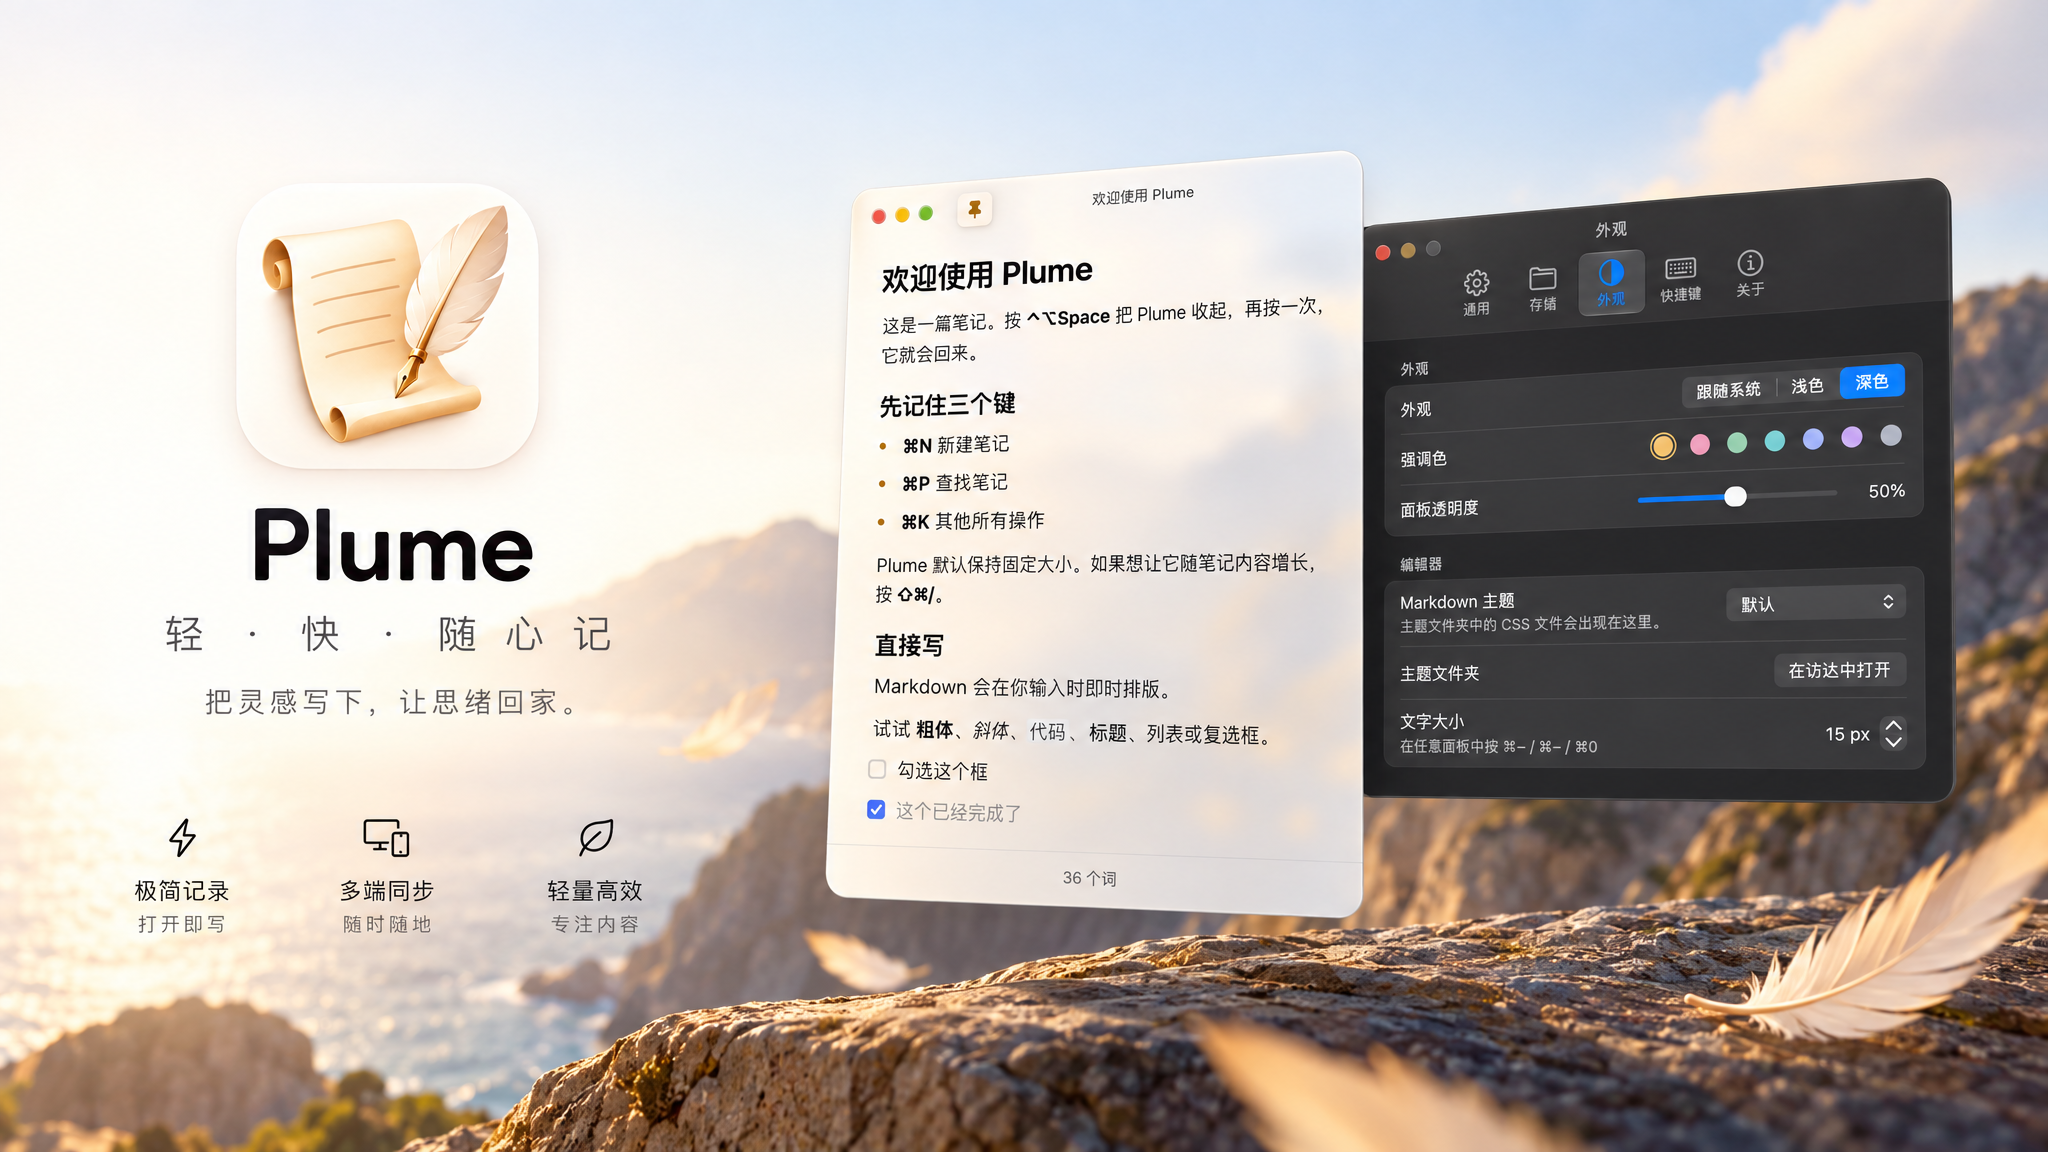
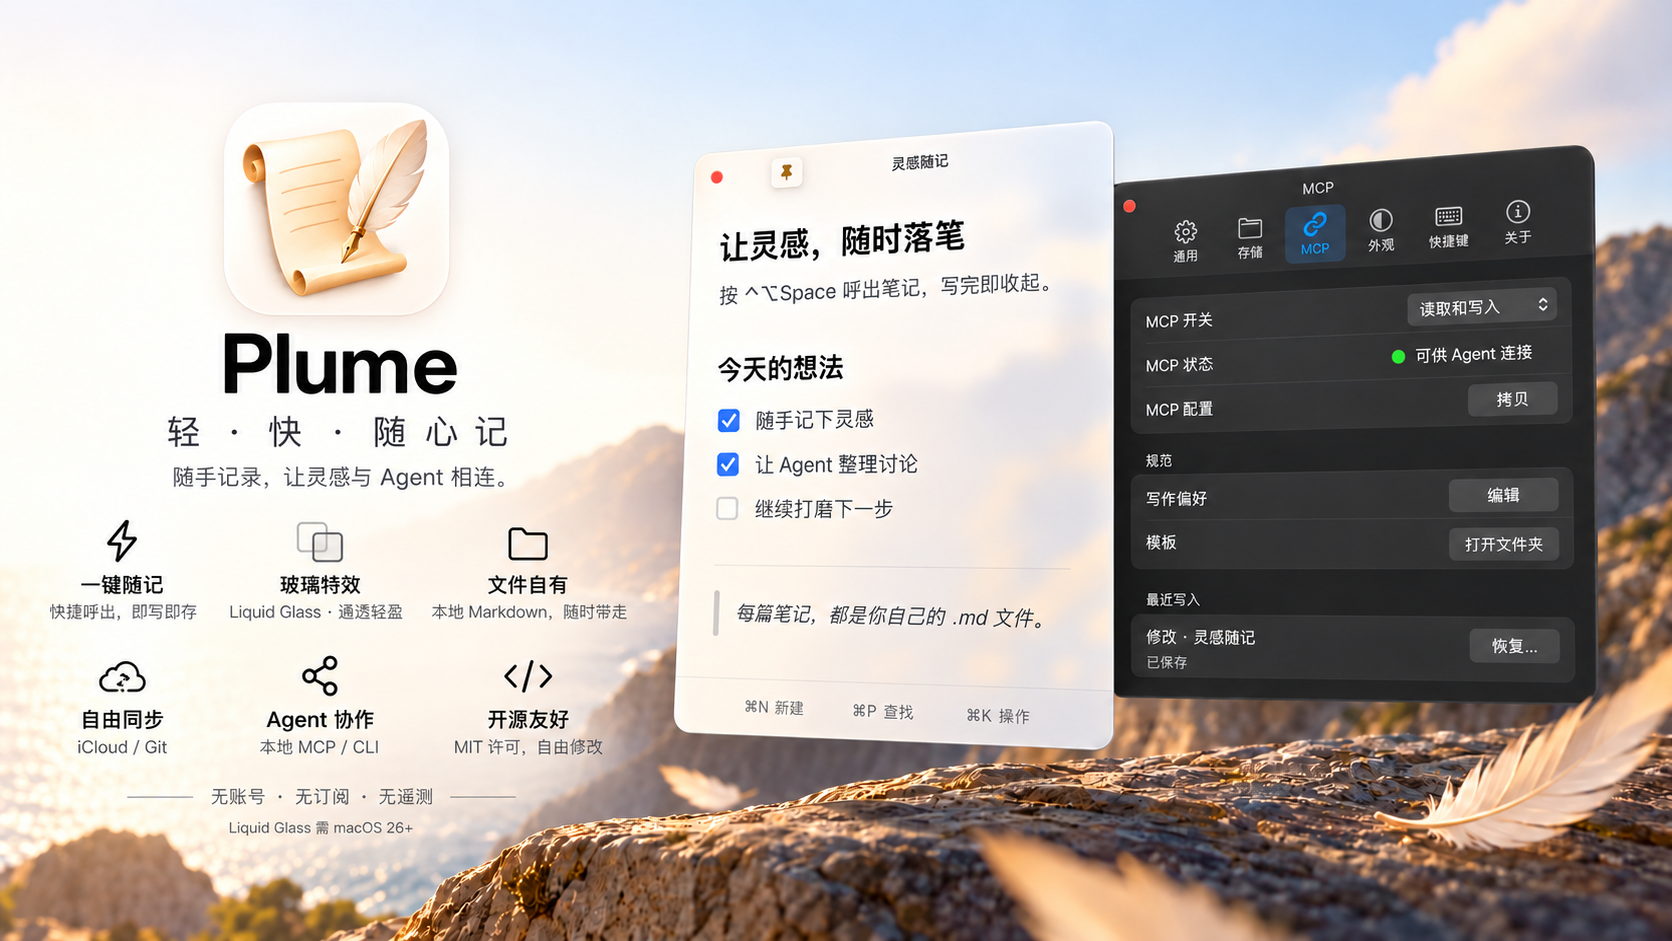
docs(readme): 📝 Refresh README for 0.6 with agent guide (#14)

diff --git a/README.md b/README.md
@@ -5,7 +5,7 @@
 <h1 align="center">Plume</h1>
 
 <p align="center">
-  A sheet of glass over whatever you're doing, that you can write on.
+  A floating Markdown notepad for macOS. Capture a thought, keep your files, connect your agent.
 </p>
 
 <p align="center">
@@ -20,11 +20,14 @@
 </p>
 
 <p align="center">
-  <img src="Artifacts/plume-hero.png" alt="The Plume panel floating above a code editor, showing a markdown note rendered live" width="760">
+  <img src="Artifacts/plume-hero.png" alt="Plume product illustration: a glass Markdown note beside MCP settings, above a sunlit coast" width="960">
 </p>
 
-Press <kbd>⌃⌥Space</kbd> to bring a floating note over your current app, write, and dismiss it.
-Unlimited notes, no account, no subscription.
+Press <kbd>⌃⌥Space</kbd> to bring a floating note over your current app, write, and press it again
+to get back to work. Notes are plain Markdown files in a folder you own. Connect your own AI agent
+through local MCP or the bundled CLI to find notes and help write them.
+
+Unlimited notes, no account, no subscription. Requires macOS 14 or later.
 
 ## Install
 
@@ -35,39 +38,99 @@ brew install --cask tiylabs/tap/plume
 Or download the `.dmg` from the [latest release](https://github.com/tiylabs/plume/releases/latest)
 and drag `Plume.app` into `Applications`. Releases are signed and notarized by Apple.
 
+## Start writing
+
+Open Plume, summon the panel, and write. It saves automatically.
+
+| Shortcut | Action |
+| --- | --- |
+| <kbd>⌃⌥Space</kbd> | Summon or dismiss the panel |
+| <kbd>⌘N</kbd> | Start a new note |
+| <kbd>⌘P</kbd> | Find notes with fuzzy title and full-text search |
+| <kbd>⌘K</kbd> | Open actions: export, pin, desktop assignment, Recently Deleted, and more |
+| <kbd>⌘F</kbd> | Find text in the current note |
+| <kbd>⌘,</kbd> | Open Settings |
+
+These are the default shortcuts. Change the global hotkey and action shortcuts in Settings.
+
 ## Features
 
-- **Global hotkey.** Opens the last note, with the caret where you left it.
-- **Live Markdown.** Block symbols stay hidden; inline ones show only under the caret.
-- **One panel.** <kbd>⌘P</kbd> switches notes (fuzzy and full-text search), <kbd>⌘K</kbd> opens actions.
-- **Plain files.** Notes are `.md` files in a folder you choose (`~/Documents/Plume` by default).
-  External edits are picked up; conflicts are saved to a separate file, never overwritten.
-- **Sync.** Pick iCloud Drive under Settings › Storage, any folder your own sync tool manages, or a
-  Git repository. Git sync uses the `git` on your Mac and your own SSH keys or saved credentials; every
-  5 minutes it merges in what changed on the remote and commits and pushes what changed here. When both
-  sides edited a note, Git's conflict markers are left in it, a yellow dot appears on the menu bar icon,
-  and syncing resumes once you remove them. A failed sync shows a red dot.
-- **Themes.** A theme is a CSS file in `~/Library/Application Support/Plume/Themes`.
-- **Connect your agent.** Turn it on under Settings › MCP and your own AI agent can search and read
-  notes, and create or partly change them following your writing preferences and templates, through
-  the `plume-cli` helper inside the app (a local MCP server or a command line). Off by default,
-  read-only available, and every write is listed and can be restored.
-- **Private.** No permissions requested, no telemetry. The only network calls are an update check
-  against GitHub, which can be turned off in Settings, and Git sync, which is off until you set it up.
-  Agents talk to Plume over a local Unix socket on your Mac; Plume adds no network requests for them,
-  and what an agent does with what it reads is up to that agent.
+- **Pick up where you left off.** The global hotkey brings back your last note and caret position.
+  Keep the panel at a fixed size or let it grow with the note.
+- **Live Markdown.** Headings, lists, task checkboxes, quotes, code blocks, links, and inline
+  formatting render as you type. Copy Markdown or export a self-contained HTML file from <kbd>⌘K</kbd>.
+- **Your desktop, your choice.** Use <kbd>⌘K</kbd> to choose None, This Desktop, or All Desktops.
+  Plume also respects macOS Dock assignments. The title-bar thumbtack keeps the panel above other apps.
+- **Files you own.** Each note is a `.md` file in a folder you choose (`~/Documents/Plume` by default).
+  External edits appear automatically; conflicting local edits are kept in a separate file.
+  Deleted notes can be recovered from Recently Deleted during the retention period you choose.
+- **Sync your way.** Choose iCloud Drive, a folder managed by your own sync tool, or Git under
+  Settings › Storage. Git sync uses your Mac's `git` and your SSH keys or saved credentials to commit
+  local changes, merge remote changes, and push every 5 minutes. Conflicts stay in the note as Git
+  markers; a yellow menu bar dot asks you to resolve them before syncing continues. A red dot means
+  a sync failed.
+- **Make it yours.** Light and dark appearances, accent colors, adjustable transparency, English
+  and Simplified Chinese, and CSS themes in `~/Library/Application Support/Plume/Themes`.
+  Liquid Glass is available on macOS 26 and later.
+- **Work with your agent.** Local MCP and the bundled `plume-cli` let your own AI agent search,
+  read, create, and partly edit notes using your writing preferences and Markdown templates.
+  Access is off by default, with separate read-only and read/write modes.
 
-<kbd>⌘,</kbd> opens Settings. They are stored in `settings.json`, which Plume re-reads live.
+## Connect your agent
+
+1. Install Plume in `Applications`, then open Settings › MCP with <kbd>⌘,</kbd>.
+2. Set **MCP access** to **Read only** or **Read and write**.
+3. Copy **MCP configuration** into your agent's local MCP settings (usually its `mcpServers`
+   section), then restart the agent. The configuration includes the helper path and credential.
+4. Edit **Writing preferences** and **Templates** to tell the agent how you like notes written.
+
+For example, ask your agent:
+
+> Summarize our discussion in Plume. Update a related note if one exists; otherwise create a new one.
+
+Every agent write appears under **Recent writes**. Eligible edits have a **Restore…** action to
+recover the earlier text. The agent cannot delete notes, change settings, move the notes folder,
+or run Git. Changes to the open note are refused while the panel has keyboard focus or unsaved edits.
+
+For agents that use shell commands, use the helper at the `command` path in the MCP configuration
+and pass the copied credential through `PLUME_CLI_TOKEN`. With Plume installed in `/Applications`
+and that environment variable set:
+
+```bash
+/Applications/Plume.app/Contents/MacOS/plume-cli context
+/Applications/Plume.app/Contents/MacOS/plume-cli notes search --query "project"
+```
+
+If you move the app or rotate the credential, copy the configuration again. Restart your agent
+after updating Plume.
+
+## Privacy
+
+No system privacy permissions requested, no telemetry. Plume's network requests are GitHub update
+checks and Git sync if you enable it. Automatic update checks can be turned off in Settings;
+Plume does not download or install updates itself.
+
+Agent access uses a local Unix socket on your Mac and adds no network requests from Plume.
+If your agent uses a cloud model, the notes it reads may be sent to that service.
+
+Settings are stored in `~/Library/Application Support/Plume/settings.json` and reloaded live.
 
 ## Build from source
 
-Needs the Command Line Tools; no Xcode project.
+Requires macOS, Command Line Tools with Swift 6+ and the macOS 26 SDK or newer, and Node.js with npm.
+No Xcode project is needed; Make installs the editor dependencies with `npm ci`.
 
 ```bash
+git clone https://github.com/tiylabs/plume.git
+cd plume
 make test-all  # every test suite
 make dev       # rebuild and launch the isolated build/Plume Dev.app
 make build     # release build of build/Plume.app
 ```
+
+The Dev app uses separate settings and notes, so it can run alongside the release app.
+See [AGENTS.md](AGENTS.md) for the repository layout and verification commands, or run `make help`.
+See [CHANGELOG.md](CHANGELOG.md) for release history.
 
 ## License
 

diff --git a/README.zh-CN.md b/README.zh-CN.md
@@ -5,7 +5,7 @@
 <h1 align="center">Plume</h1>
 
 <p align="center">
-  在你的 macOS 上一键呼出的草稿本，Markdown 随记随查
+  macOS 上一键呼出的 Markdown 草稿本。随手记录，文件自有，连接你的 Agent。
 </p>
 
 <p align="center">
@@ -20,11 +20,14 @@
 </p>
 
 <p align="center">
-  <img src="Artifacts/plume-hero.png" alt="Plume 浮在代码编辑器上方" width="760">
+  <img src="Artifacts/plume-hero.png" alt="Plume 产品示意图：暖金海岸上方的玻璃 Markdown 笔记与 MCP 设置面板" width="960">
 </p>
 
-按 <kbd>⌃⌥Space</kbd>，笔记就浮到当前窗口上，写完再按一下就收起。
-不限笔记数量，无需账号，无需订阅。
+按 <kbd>⌃⌥Space</kbd>，笔记就浮到当前窗口上，写完再按一下，回到手头的工作。
+每篇笔记都是你自己文件夹里的普通 Markdown 文件。通过本地 MCP 或内附 CLI，
+还可以让你自己的 AI Agent 查找笔记、协助写作。
+
+不限笔记数量，无需账号，无需订阅。支持 macOS 14 及以上。
 
 ## 安装
 
@@ -35,29 +38,90 @@ brew install --cask tiylabs/tap/plume
 或到 [Releases](https://github.com/tiylabs/plume/releases/latest) 下载 `.dmg`，把 Plume 拖进
 Applications。发布版已签名并通过 Apple 公证。
 
+## 开始记录
+
+打开 Plume，呼出面板，直接写。笔记会自动保存。
+
+| 快捷键 | 操作 |
+| --- | --- |
+| <kbd>⌃⌥Space</kbd> | 呼出或收起面板 |
+| <kbd>⌘N</kbd> | 新建笔记 |
+| <kbd>⌘P</kbd> | 查找笔记，支持标题模糊搜索与全文搜索 |
+| <kbd>⌘K</kbd> | 打开操作：导出、固定笔记、桌面分配、最近删除等 |
+| <kbd>⌘F</kbd> | 在当前笔记中查找 |
+| <kbd>⌘,</kbd> | 打开设置 |
+
+以上为默认快捷键。全局呼出键和操作快捷键可在设置中修改。
+
 ## 功能
 
-- **全局快捷键。** 打开上次写的那篇，光标停在原位。
-- **实时渲染 Markdown。** 块级符号不显示，行内符号只在光标处显示。
-- **一个面板搞定。** <kbd>⌘P</kbd> 切换笔记（模糊搜索 + 全文搜索），<kbd>⌘K</kbd> 打开操作。
-- **普通文件。** 笔记就是你所选文件夹（默认 `~/Documents/Plume`）里的 `.md` 文件。
-  外部修改会自动读入；发生冲突会另存一份，不会覆盖。
-- **同步。** 在设置的 Storage 里选 iCloud Drive、你自己的同步工具管理的文件夹，或 Git 仓库。Git 同步使用你 Mac 上的 `git`，以及你自己的 SSH 密钥或已保存的凭据；每 5 分钟合并远端的更新，并提交、推送本地的修改。两边改了同一篇笔记时，笔记里会留下 Git 的冲突标记，菜单栏图标亮黄点，清除标记后自动恢复同步；同步失败时亮红点。
-- **主题。** 主题就是放在 `~/Library/Application Support/Plume/Themes` 里的一个 CSS 文件。
-- **连接你的 Agent。** 在设置的 MCP 页开启后，你自己的 AI Agent 可以通过 App 内附带的 `plume-cli`（本地 MCP 服务或命令行）搜索、读取笔记，并按你的写作偏好和模板新建笔记、局部修改笔记。默认关闭；可选只读；每次写入都有记录，可以恢复。
-- **隐私。** 不申请任何系统权限，没有统计。联网请求只有两种：向 GitHub 检查更新（可在设置中关闭），以及 Git 同步（设置之前不会启用）。Agent 接入只通过本机的 Unix socket 通信，Plume 不会为此发起网络请求；Agent 读取到的内容如何处理，由 Agent 自己决定。
+- **接着上次写。** 一键回到上次的笔记和光标位置。面板可保持固定大小，也可随内容增长。
+- **Markdown 即写即见。** 标题、列表、任务复选框、引用、代码块、链接和行内格式随输入排版。
+  在 <kbd>⌘K</kbd> 中可拷贝 Markdown，或导出为独立 HTML 文件。
+- **面板放在哪里，由你决定。** 在 <kbd>⌘K</kbd> 中选择「无」「当前桌面」或「全部桌面」，
+  也会遵循 macOS Dock 的桌面分配。标题栏图钉可让面板持续置于其他应用上方。
+- **文件属于你。** 每篇笔记都是所选文件夹（默认 `~/Documents/Plume`）里的 `.md` 文件。
+  外部修改自动读入；与本地编辑冲突时，另存副本保留内容。删除的笔记可在你设定的保留期内从「最近删除」恢复。
+- **按自己的方式同步。** 在设置 › 存储中选择 iCloud Drive、你自己的同步工具管理的文件夹，
+  或 Git。Git 同步使用本机的 `git` 及你的 SSH 密钥或已保存的凭据，每 5 分钟提交本地修改、
+  合并远端更新并推送。冲突以 Git 标记保留在笔记中，菜单栏黄点提示你处理，清除标记后继续同步；红点表示同步失败。
+- **调整到顺手。** 支持浅色与深色外观、强调色、可调透明度、中英文界面，以及
+  `~/Library/Application Support/Plume/Themes` 中的 CSS 主题。macOS 26 及以上支持 Liquid Glass。
+- **和你的 Agent 一起写。** 通过本地 MCP 或内附 `plume-cli`，让你自己的 AI Agent
+  按写作偏好与 Markdown 模板搜索、读取、新建和局部修改笔记。默认关闭，可分别选择只读或读写权限。
 
-<kbd>⌘,</kbd> 打开设置，所有设置存在 `settings.json` 中，修改后立即生效。
+## 连接你的 Agent
+
+1. 把 Plume 安装到「应用程序」，按 <kbd>⌘,</kbd> 打开设置 › MCP。
+2. 将 **MCP 开关**设为**仅读取**或**读取和写入**。
+3. 拷贝 **MCP 配置**，粘贴到 Agent 的本地 MCP 设置中（通常是 `mcpServers` 部分），
+   然后重启 Agent。配置已包含小工具路径和连接凭据。
+4. 编辑**写作偏好**和**模板**，告诉 Agent 你希望笔记怎么写。
+
+例如，可以对 Agent 说：
+
+> 把刚才的讨论整理进 Plume；有相关笔记就更新，没有就新建。
+
+每次 Agent 写入都会列在**最近写入**中，可恢复的修改会显示**恢复…**按钮，用来还原修改前的内容。
+Agent 不能删除笔记、修改设置、移动笔记文件夹或执行 Git。当面板拥有键盘焦点或有未保存的编辑时，
+对当前笔记的修改会被拒绝。
+
+使用 Shell 的 Agent 也可调用 MCP 配置中 `command` 指向的小工具，通过 `PLUME_CLI_TOKEN`
+环境变量传入拷贝的凭据。若 Plume 安装在 `/Applications`，且已设置该环境变量：
+
+```bash
+/Applications/Plume.app/Contents/MacOS/plume-cli context
+/Applications/Plume.app/Contents/MacOS/plume-cli notes search --query "项目"
+```
+
+移动 App 或轮转凭据后，请重新拷贝配置；更新 Plume 后，请重启 Agent。
+
+## 隐私
+
+不申请系统隐私权限，不收集统计信息。Plume 的联网请求只有 GitHub 更新检查，以及你启用的 Git 同步。
+自动检查更新可在设置中关闭；Plume 不会自行下载或安装更新。
+
+Agent 通过这台 Mac 上的本地 Unix socket 接入，不会增加 Plume 的网络请求。
+如果你的 Agent 使用云端模型，它读取的笔记可能会发送到对应服务。
+
+设置保存在 `~/Library/Application Support/Plume/settings.json` 中，修改后会实时重新加载。
 
 ## 从源码构建
 
-只需 Command Line Tools，不需要 Xcode。
+需要 macOS、带 Swift 6+ 和 macOS 26 或更新 SDK 的 Command Line Tools，以及 Node.js 和 npm。
+无需 Xcode 工程；Make 会通过 `npm ci` 安装编辑器依赖。
 
 ```bash
+git clone https://github.com/tiylabs/plume.git
+cd plume
 make test-all  # 运行全部测试
 make dev       # 编译并启动独立的开发版 build/Plume Dev.app
 make build     # 构建正式版 build/Plume.app
 ```
+
+开发版使用独立的设置和笔记，可与正式版同时运行。
+仓库结构与验证命令见 [AGENTS.md](AGENTS.md)，也可运行 `make help`。
+版本历史见 [CHANGELOG.md](CHANGELOG.md)。
 
 ## 许可证
 
